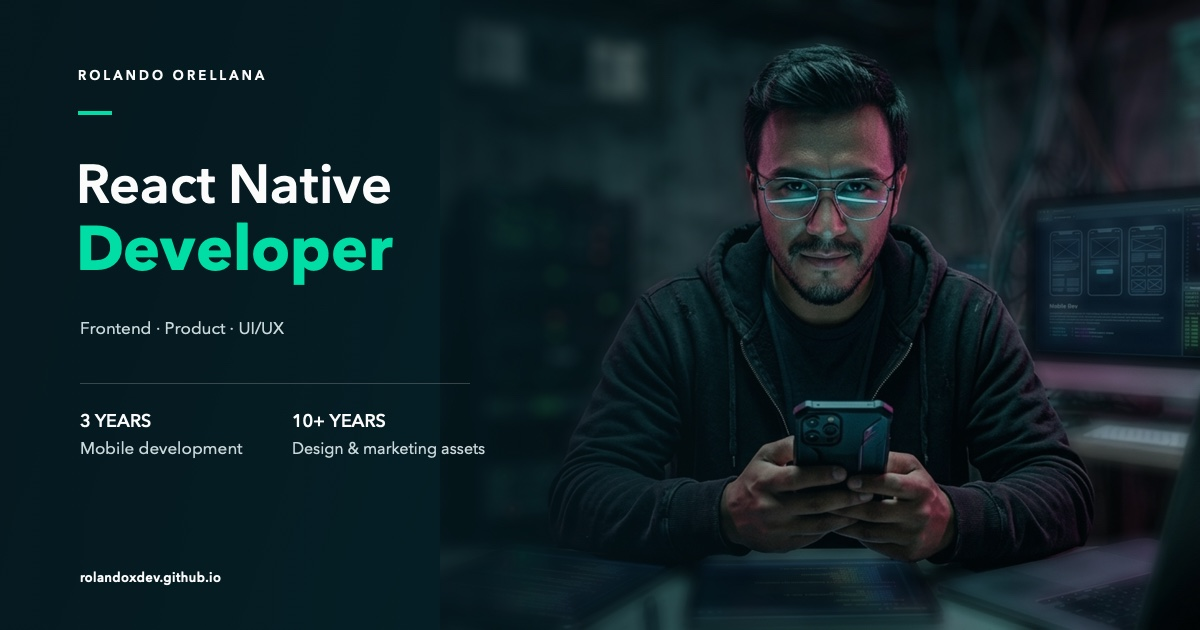
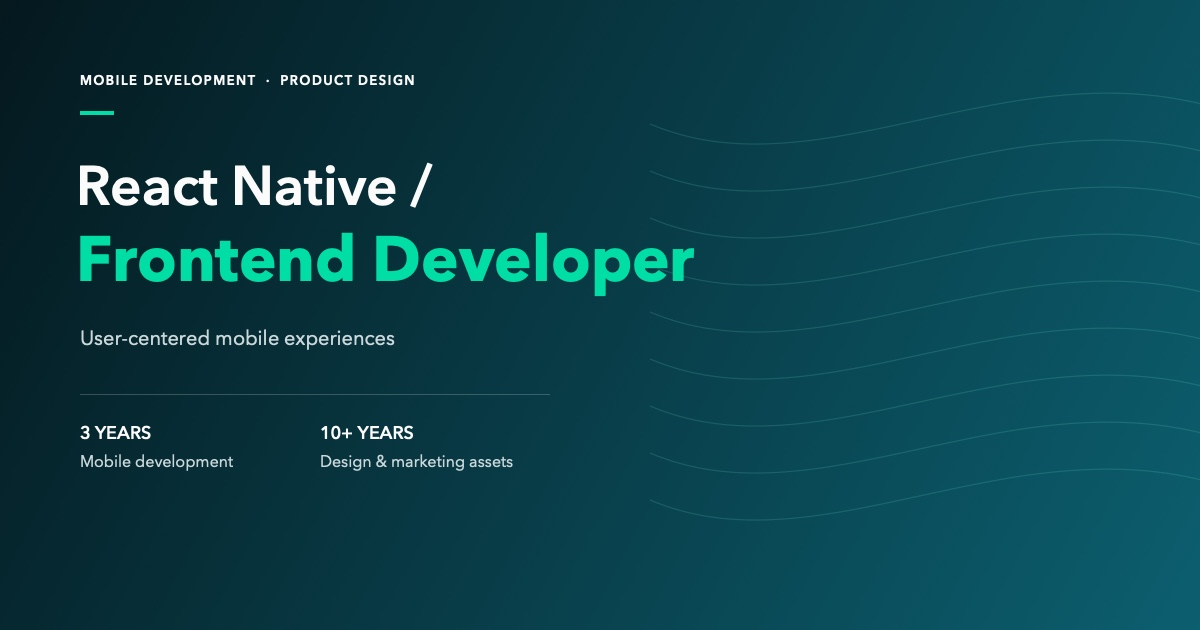
update footer and preview

diff --git a/index.html b/index.html
@@ -10,23 +10,23 @@
 
     <!-- Open Graph Meta Tags -->
     <meta property="og:site_name" content="Rolando Orellana Portfolio" />
-    <meta property="og:title" content="Rolando Orellana | React Native Developer & Designer" />
+    <meta property="og:title" content="React Native / Frontend Developer | Rolando Orellana" />
     <meta property="og:description" content="3 years building mobile apps. 10+ years in graphic design and digital marketing assets." />
-    <meta property="og:image" content="https://rolandoxdev.github.io/preview.jpg?v=4" />
-    <meta property="og:image:secure_url" content="https://rolandoxdev.github.io/preview.jpg?v=4" />
+    <meta property="og:image" content="https://rolandoxdev.github.io/preview.jpg?v=5" />
+    <meta property="og:image:secure_url" content="https://rolandoxdev.github.io/preview.jpg?v=5" />
     <meta property="og:image:type" content="image/jpeg" />
     <meta property="og:image:width" content="1200" />
     <meta property="og:image:height" content="630" />
-    <meta property="og:image:alt" content="Rolando Orellana, React Native Developer, with experience in mobile development and graphic design" />
+    <meta property="og:image:alt" content="Social card reading React Native / Frontend Developer, with 3 years in mobile development and 10+ years in design" />
     <meta property="og:url" content="https://rolandoxdev.github.io/" />
     <meta property="og:type" content="website" />
 
     <!-- Twitter Card Meta Tags -->
     <meta name="twitter:card" content="summary_large_image" />
-    <meta name="twitter:title" content="Rolando Orellana | React Native Developer & Designer" />
+    <meta name="twitter:title" content="React Native / Frontend Developer | Rolando Orellana" />
     <meta name="twitter:description" content="3 years building mobile apps. 10+ years in graphic design and digital marketing assets." />
-    <meta name="twitter:image" content="https://rolandoxdev.github.io/preview.jpg?v=4" />
-    <meta name="twitter:image:alt" content="Rolando Orellana, React Native Developer, with experience in mobile development and graphic design" />
+    <meta name="twitter:image" content="https://rolandoxdev.github.io/preview.jpg?v=5" />
+    <meta name="twitter:image:alt" content="Social card reading React Native / Frontend Developer, with 3 years in mobile development and 10+ years in design" />
 
     <title>Rolando Orellana | React Native Developer &amp; Designer</title>
 

diff --git a/src/components/Footer.jsx b/src/components/Footer.jsx
@@ -71,7 +71,7 @@ const Footer = () => {
         </IconButton>
         <IconButton
           component="a"
-          href="https://github.com/orellanamr"
+          href="https://github.com/Rolandoxdev"
           target="_blank"
           rel="noopener"
           sx={{ color: "black" }}
